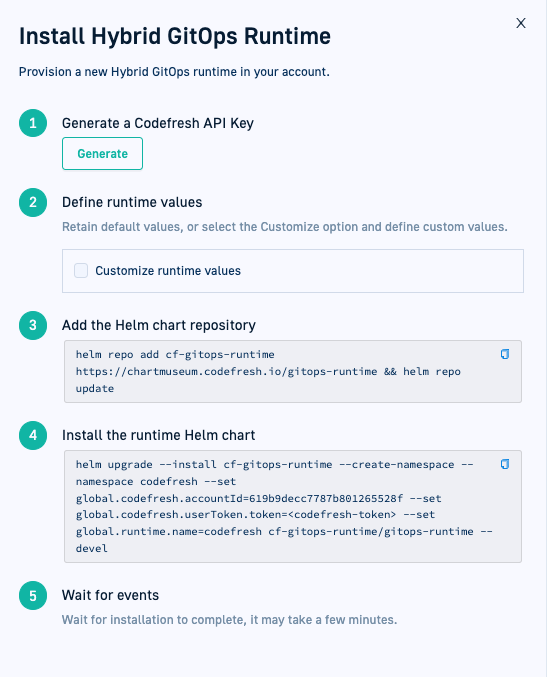
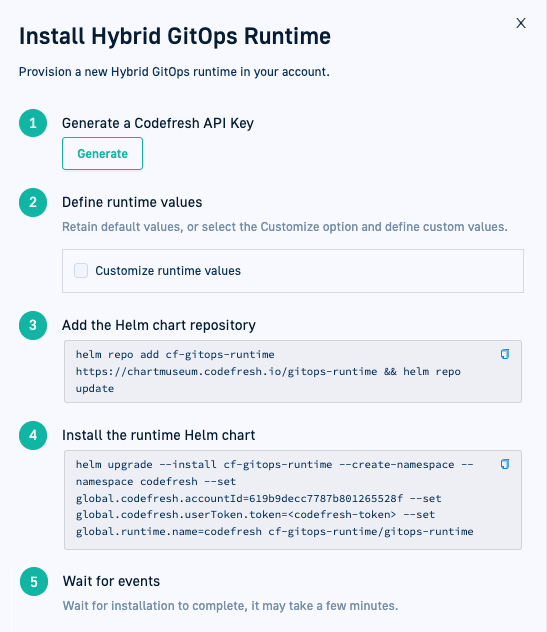
Update quick start content for gitops runtimes
Fixed terminology and removed screenshot --devel from screenshot

diff --git a/_docs/quick-start/gitops-quick-start/runtime.md b/_docs/quick-start/gitops-quick-start/runtime.md
@@ -16,14 +16,14 @@ The Runtime is installed through a Helm chart. The Codefresh `values.yaml` is lo
 The quick start assumes that you are installing the first Hybrid GitOps Runtime in your Codefresh account. 
 
 ## Argo project components & CRDs
-Hybrid GitOps installation requires a cluster without Argo project components and CRDs. 
+Hybrid GitOps installation requires a cluster without Argo project components and CRDs (Custom Resource Definitions). 
 
 Argo project components include Argo Rollouts, Argo CD, Argo Events, and Argo Workflows.  
 
 You can handle Argo project CRDs outside the chart, or as recommended, adopt the CRDs to be managed by the GitOps Runtime Helm release. 
 
 If you already have Argo project CRDs on your cluster, do one of the following:
-* Handle Argo projects CRDs outside of the chart (see [Argo's readme on Helm charts](https://github.com/argoproj/argo-helm/blob/main/README.md){:target="\_blank"}) 
+* Handle Argo projects CRDs outside of the chart (see [Argo's readme on Helm charts](https://github.com/argoproj/argo-helm/blob/main/README.md){:target="\_blank"})  
   Disable CRD installation under the relevant section for each of the Argo projects in the Helm chart:<br>
   `--set <argo-project>.crds.install=false`<br>
   where:<br>
@@ -44,13 +44,13 @@ kubectl annotate --overwrite crds $(kubectl get crd | grep argoproj.io | awk '{p
 ```
 
 ### Tunnel-based runtime
-Hybrid GitOps Runtimes supports tunnel-based, ingress-based access modes.  
+Hybrid GitOps Runtimes supports tunnel-based, ingress-based, and service-mesh-based access modes.  
 For the quick start, we'll use the tunnel-based mode which is the default access mode, not requiring an ingress controller.  
 For details on these access modes, review [GitOps Runtime architecture]({{site.baseurl}}/docs/installation/runtime-architecture/#gitops-runtime-architecture).
 
 ### GitHub as Git provider  
 Hybrid GitOps Runtimes require a Git Runtime token for authentication to the Git installation repository based on your Git provider, and a Git user token to authenticate Git-based actions for the Runtime.  
-The quick start uses GitHub as the Git provider. For other Git providers and token requirements, see ????[Git provider and repo flags]({{site.baseurl}}/docs/installation/gitops/hybrid-gitops/#git-provider-and-repo-flags).  
+The quick start uses GitHub as the Git provider. For other Git providers and token requirements, see [Git providers and Git runtime tokens]({{site.baseurl}}/docs/reference/git-tokens/#git-runtime-token-scopes).  
 
 Have your GitHub Runtime token ready for Runtime installation with a valid expiration date and access permissions:
   * Expiration: Either the default of 30 days or any duration you consider logical.
@@ -98,7 +98,7 @@ Read up on the [Shared Configuration Repository]({{site.baseurl}}/docs/installat
         * `<codefresh-account-id>` is mandatory for _tunnel-based Hybrid GitOps Runtimes_, and is automatically populated by Codefresh in the command. 
         * `<codefresh-token>` is the API key you generated, and is automatically populated in the command.
         * `codefresh` is the default name of the runtime. 
-        * `<cf-gitops-runtime/gitops-runtime>` is the name of the repo and must be identical to the one specified in _Step 3_, and is by default, `cf-gitops-runtime`. `gitops-runtime` is the name of the Helm chart and is predefined by Codefresh and cannot be changed.
+        * `<cf-gitops-runtime/gitops-runtime>` is the name of the repo and must be identical to the one specified in _Step 3_, and is by default, `cf-gitops-runtime`. `gitops-runtime` is the name of the Helm chart predefined by Codefresh, and cannot be changed.
 
 {% include
 image.html
@@ -110,8 +110,9 @@ caption="Quick Start: Install Hybrid GitOps Runtime"
 max-width="60%"
 %}
 
+{:start="5"}
 1. Wait for a few minutes, and then click **Close**.
-   You are taken to the List View for GitOps Runtimes where you can see the Hybrid GitOps Runtime you added prefixed with a red dot.
+   You are taken to the List View for GitOps Runtimes where you can see the Hybrid GitOps Runtime you added with a green dot indicating that it is online, and the Type column for the Runtime displaying Helm.
 1. Optional. Complete the installation by clicking **Configure as Argo Application**.  
   There is no need for any action from you, as Codefresh takes care of the configuration.
   By configuring the Hybrid GitOps Runtime as an Argo Application, you can ensure that GitOps is the single source of truth for the Runtime and view and monitor Runtime components. 

diff --git a/_docs/quick-start/gitops-quick-start.md b/_docs/quick-start/gitops-quick-start.md
@@ -8,31 +8,31 @@ toc: true
 Check out our GitOps quick starts to get up and running with GitOps in Codefresh.  
 
 The quick start guides you through:
-* Provisioning runtimes
+* Provisioning GitOps Runtimes
 * Creating and deploying an application
 
 
-## Provision runtimes
-Based on your deployment model, start by provisioning the hosted or hybrid runtime. Hosted and hybrid runtimes can co-exist with each other.
+## Provision GitOps Runtimes
+Based on your deployment model, start by provisioning the Hosted or Hybrid GitOps Runtime. Hosted and Hybrid GitOps Runtimes can co-exist with each other.
 
 
 ### Hosted 
-Hosted runtimes are hosted on a Codefresh cluster and managed by Codefresh. You need to provision your hosted runtime once for your account.  
+Hosted GitOps Runtimes are hosted on a Codefresh cluster and managed by Codefresh. You need to provision your Hosted Runtime once for your account.  
 
-1. [Provision a hosted runtime]({{site.baseurl}}/docs/quick-start/gitops-quick-start/install-hosted)  
-  Provision the hosted runtime with a single click, and complete the setup for your hosted environment.  
+1. [Provision a Hosted GitOps Runtime]({{site.baseurl}}/docs/quick-start/gitops-quick-start/install-hosted)  
+  Provision the Hosted GitOps Runtime with a single click, and complete the setup for your hosted environment.  
 
 {::nomarkdown}
 <br>
 {:/}
 
 ### Hybrid
-Hybrid runtimes are hosted on a customer cluster and managed by the customer. You can provision multiple hybrid runtimes in the same account.  
+Hybrid GitOps Runtimes are hosted on a customer cluster and managed by the customer. You can provision multiple Hybrid GitOps Runtimes in the same account.  
 
-1. [Prepare for hybrid runtime installation]({{site.baseurl}}/docs/quick-start/gitops-quick-start/verify-requirements)  
-  Verify your environment matches the requirements for installing Codefresh runtime.
-1. [Install hybrid runtime]({{site.baseurl}}/docs/quick-start/gitops-quick-start/runtime)  
-  Install the Codefresh runtime by downloading the CLI, installing the runtime, and validate successful installation in the UI
+1. [Prepare for Hybrid GitOps Runtime installation]({{site.baseurl}}/docs/quick-start/gitops-quick-start/verify-requirements)  
+  Verify your environment matches the requirements for installing a Hybrid GitOps Runtime.
+1. [Install the Hybrid GitOps Runtime]({{site.baseurl}}/docs/quick-start/gitops-quick-start/runtime)  
+  Install the Hybrid GitOps Runtime through Helm.
 
 ## Create a Codefresh account
 [Create an account in Codefresh]({{site.baseurl}}/docs/quick-start/create-codefresh-account/) in which to create pipelines.

diff --git a/_docs/quick-start/gitops-quick-start/verify-requirements.md b/_docs/quick-start/gitops-quick-start/verify-requirements.md
@@ -15,7 +15,7 @@ If this is your first time installing GitOps in Codefresh, review and confirm th
 
 ## Existing CLI-based Hybrid GitOps installation  
 If you already have a CLI-based Hybrid GitOps Runtime installed on your cluster, you have two options:
-1. To install on the same cluster, first uninstall the existing CLI-based Hybrid GitOps Runtime. Currently, you can install a single hybrid runtime per cluster.  
+1. To install on the same cluster, first uninstall the existing CLI-based Hybrid GitOps Runtime. 
   This is the recommended option.
 1. Install on a different cluster, verifying that you meet the minimum requirements.  
 
